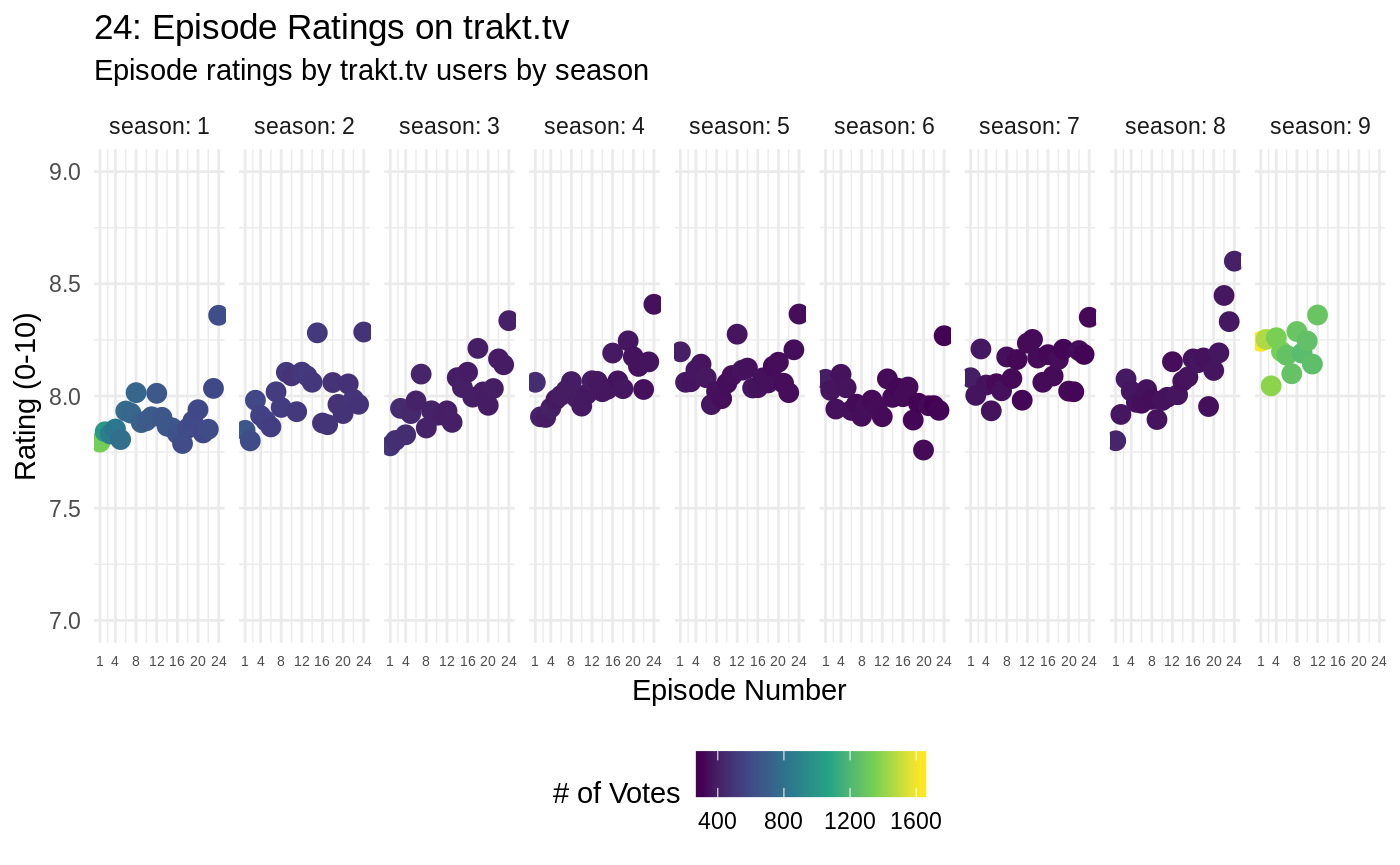
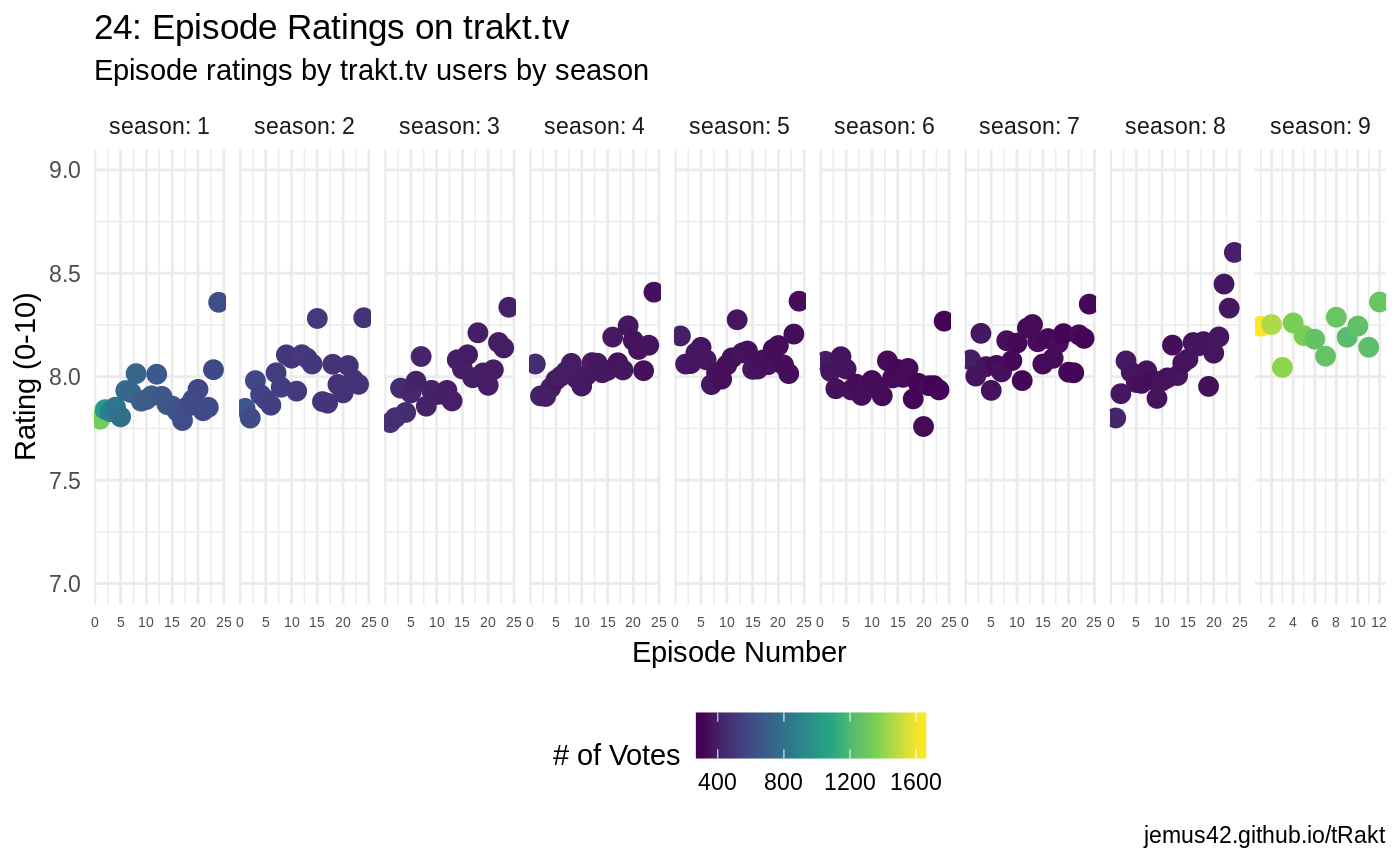
Built site for tRakt: 0.14.0.9000@8f3aa1c

diff --git a/articles/show-analysis-24.html b/articles/show-analysis-24.html
@@ -185,16 +185,17 @@ In this case, we’ll use <code><a href="../reference/trakt.seasons.summary.html
 <a class="sourceLine" id="cb5-2" data-line-number="2"></a>
 <a class="sourceLine" id="cb5-3" data-line-number="3"><span class="kw"><a href="https://ggplot2.tidyverse.org/reference/ggplot.html">ggplot</a></span>(<span class="dt">data =</span> episodes, <span class="kw"><a href="https://ggplot2.tidyverse.org/reference/aes.html">aes</a></span>(<span class="dt">x =</span> episodes_episode, <span class="dt">y =</span> episodes_rating, <span class="dt">color =</span> episodes_votes)) <span class="op">+</span></a>
 <a class="sourceLine" id="cb5-4" data-line-number="4"><span class="st">  </span><span class="kw"><a href="https://ggplot2.tidyverse.org/reference/geom_point.html">geom_point</a></span>(<span class="dt">size =</span> <span class="dv">3</span>) <span class="op">+</span></a>
-<a class="sourceLine" id="cb5-5" data-line-number="5"><span class="st">  </span><span class="kw"><a href="https://ggplot2.tidyverse.org/reference/facet_wrap.html">facet_wrap</a></span>(<span class="op">~</span>season, <span class="dt">nrow =</span> <span class="dv">1</span>, <span class="dt">labeller =</span> label_both) <span class="op">+</span></a>
-<a class="sourceLine" id="cb5-6" data-line-number="6"><span class="st">  </span><span class="kw"><a href="https://ggplot2.tidyverse.org/reference/scale_continuous.html">scale_x_continuous</a></span>(<span class="dt">breaks =</span> <span class="kw"><a href="https://www.rdocumentation.org/packages/base/topics/c">c</a></span>(<span class="dv">1</span>, <span class="kw"><a href="https://www.rdocumentation.org/packages/base/topics/seq">seq</a></span>(<span class="dv">4</span>, <span class="dv">24</span>, <span class="dv">4</span>))) <span class="op">+</span></a>
+<a class="sourceLine" id="cb5-5" data-line-number="5"><span class="st">  </span><span class="kw"><a href="https://ggplot2.tidyverse.org/reference/facet_wrap.html">facet_wrap</a></span>(<span class="op">~</span>season, <span class="dt">nrow =</span> <span class="dv">1</span>, <span class="dt">labeller =</span> label_both, <span class="dt">scales =</span> <span class="st">"free_x"</span>) <span class="op">+</span></a>
+<a class="sourceLine" id="cb5-6" data-line-number="6"><span class="st">  </span><span class="kw"><a href="https://ggplot2.tidyverse.org/reference/scale_continuous.html">scale_x_continuous</a></span>(<span class="dt">breaks =</span> scales<span class="op">::</span><span class="kw"><a href="https://www.rdocumentation.org/packages/scales/topics/pretty_breaks">pretty_breaks</a></span>()) <span class="op">+</span></a>
 <a class="sourceLine" id="cb5-7" data-line-number="7"><span class="st">  </span><span class="kw"><a href="https://ggplot2.tidyverse.org/reference/scale_continuous.html">scale_y_continuous</a></span>(<span class="dt">breaks =</span> <span class="kw"><a href="https://www.rdocumentation.org/packages/base/topics/seq">seq</a></span>(<span class="dv">0</span>, <span class="dv">10</span>, <span class="fl">.5</span>), <span class="dt">minor_breaks =</span> <span class="kw"><a href="https://www.rdocumentation.org/packages/base/topics/seq">seq</a></span>(<span class="dv">0</span>, <span class="dv">10</span>, <span class="fl">.25</span>), <span class="dt">limits =</span> <span class="kw"><a href="https://www.rdocumentation.org/packages/base/topics/c">c</a></span>(<span class="dv">7</span>, <span class="dv">9</span>)) <span class="op">+</span></a>
 <a class="sourceLine" id="cb5-8" data-line-number="8"><span class="st">  </span><span class="kw"><a href="https://ggplot2.tidyverse.org/reference/scale_viridis.html">scale_color_viridis_c</a></span>() <span class="op">+</span></a>
 <a class="sourceLine" id="cb5-9" data-line-number="9"><span class="st">  </span><span class="kw"><a href="https://ggplot2.tidyverse.org/reference/labs.html">labs</a></span>(<span class="dt">title =</span> <span class="st">"24: Episode Ratings on trakt.tv"</span>,</a>
 <a class="sourceLine" id="cb5-10" data-line-number="10">       <span class="dt">subtitle =</span> <span class="st">"Episode ratings by trakt.tv users by season"</span>,</a>
-<a class="sourceLine" id="cb5-11" data-line-number="11">       <span class="dt">x =</span> <span class="st">"Episode Number"</span>, <span class="dt">y =</span> <span class="st">"Rating (0-10)"</span>, <span class="dt">color =</span> <span class="st">"# of Votes"</span>) <span class="op">+</span></a>
-<a class="sourceLine" id="cb5-12" data-line-number="12"><span class="st">  </span><span class="kw"><a href="https://ggplot2.tidyverse.org/reference/ggtheme.html">theme_minimal</a></span>() <span class="op">+</span></a>
-<a class="sourceLine" id="cb5-13" data-line-number="13"><span class="st">  </span><span class="kw"><a href="https://ggplot2.tidyverse.org/reference/theme.html">theme</a></span>(<span class="dt">legend.position =</span> <span class="st">"bottom"</span>,</a>
-<a class="sourceLine" id="cb5-14" data-line-number="14">        <span class="dt">axis.text.x =</span> <span class="kw"><a href="https://ggplot2.tidyverse.org/reference/element.html">element_text</a></span>(<span class="dt">size =</span> <span class="kw"><a href="https://ggplot2.tidyverse.org/reference/element.html">rel</a></span>(.<span class="dv">6</span>)))</a></code></pre></div>
+<a class="sourceLine" id="cb5-11" data-line-number="11">       <span class="dt">x =</span> <span class="st">"Episode Number"</span>, <span class="dt">y =</span> <span class="st">"Rating (0-10)"</span>, <span class="dt">color =</span> <span class="st">"# of Votes"</span>,</a>
+<a class="sourceLine" id="cb5-12" data-line-number="12">       <span class="dt">caption =</span> <span class="st">"jemus42.github.io/tRakt"</span>) <span class="op">+</span></a>
+<a class="sourceLine" id="cb5-13" data-line-number="13"><span class="st">  </span><span class="kw"><a href="https://ggplot2.tidyverse.org/reference/ggtheme.html">theme_minimal</a></span>() <span class="op">+</span></a>
+<a class="sourceLine" id="cb5-14" data-line-number="14"><span class="st">  </span><span class="kw"><a href="https://ggplot2.tidyverse.org/reference/theme.html">theme</a></span>(<span class="dt">legend.position =</span> <span class="st">"bottom"</span>,</a>
+<a class="sourceLine" id="cb5-15" data-line-number="15">        <span class="dt">axis.text.x =</span> <span class="kw"><a href="https://ggplot2.tidyverse.org/reference/element.html">element_text</a></span>(<span class="dt">size =</span> <span class="kw"><a href="https://ggplot2.tidyverse.org/reference/element.html">rel</a></span>(.<span class="dv">6</span>)))</a></code></pre></div>
 <p><img src="show-analysis-24_files/figure-html/24_episodes_plot-1.png" width="100%"></p>
 </div>
   </div>

diff --git a/reference/automated_lists.html b/reference/automated_lists.html
@@ -295,7 +295,11 @@ same additional variables besides the media information: <code>watcher_count</co
     
     <h2 class="hasAnchor" id="note"><a class="anchor" href="#note"></a>Note</h2>
 
-    <p>Does not support filters</p>
+    <p><code>trakt.updates</code> does not support filters.</p>
+    
+    <h2 class="hasAnchor" id="see-also"><a class="anchor" href="#see-also"></a>See also</h2>
+
+    <div class='dont-index'><p>search_filters</p></div>
     
 
     <h2 class="hasAnchor" id="examples"><a class="anchor" href="#examples"></a>Examples</h2>
@@ -317,11 +321,11 @@ same additional variables besides the media information: <code>watcher_count</co
 <span class='fu'>trakt.trending</span>(<span class='kw'>type</span> <span class='kw'>=</span> <span class='st'>"movies"</span>, <span class='fl'>5</span>, <span class='kw'>extended</span> <span class='kw'>=</span> <span class='st'>"full"</span>)</div><div class='output co'>#&gt; # A tibble: 5 x 22
 #&gt;   watchers title  year tagline overview released   runtime country trailer
 #&gt;      &lt;int&gt; &lt;chr&gt; &lt;int&gt; &lt;chr&gt;   &lt;chr&gt;    &lt;date&gt;       &lt;int&gt; &lt;chr&gt;   &lt;chr&gt;  
-#&gt; 1       72 Spid…  2018 More T… "Miles … 2018-12-14     117 us      http:/…
-#&gt; 2       54 Bohe…  2018 Fearle… Singer … 2018-11-02     135 us      http:/…
-#&gt; 3       53 Aqua…  2018 Home I… Once ho… 2018-12-21     143 us      http:/…
-#&gt; 4       49 Gree…  2018 Inspir… Tony Li… 2018-11-21     130 us      http:/…
-#&gt; 5       46 Inst…  2018 Just a… When Pe… 2018-11-16     118 us      http:/…
+#&gt; 1       70 Spid…  2018 More T… "Miles … 2018-12-14     117 us      http:/…
+#&gt; 2       53 Aqua…  2018 Home I… Once ho… 2018-12-21     143 us      http:/…
+#&gt; 3       49 Bohe…  2018 Fearle… Singer … 2018-11-02     135 us      http:/…
+#&gt; 4       44 Gree…  2018 Inspir… Tony Li… 2018-11-21     130 us      http:/…
+#&gt; 5       43 Inst…  2018 Just a… When Pe… 2018-11-16     118 us      http:/…
 #&gt; # … with 13 more variables: homepage &lt;chr&gt;, rating &lt;dbl&gt;, votes &lt;int&gt;,
 #&gt; #   comment_count &lt;int&gt;, updated_at &lt;dttm&gt;, language &lt;chr&gt;,
 #&gt; #   available_translations &lt;list&gt;, genres &lt;list&gt;, certification &lt;chr&gt;,
@@ -346,6 +350,8 @@ same additional variables besides the media information: <code>watcher_count</co
       <li><a href="#details">Details</a></li>
 
       <li><a href="#note">Note</a></li>
+
+      <li><a href="#see-also">See also</a></li>
       
       <li><a href="#examples">Examples</a></li>
     </ul>

diff --git a/reference/trakt.api.call.html b/reference/trakt.api.call.html
@@ -213,7 +213,7 @@ An empty <a href='https://tibble.tidyverse.org/reference/tibble-package.html'>ti
 #&gt; 
 #&gt; $headers
 #&gt; $date
-#&gt; [1] "Mon, 04 Mar 2019 04:26:10 GMT"
+#&gt; [1] "Mon, 04 Mar 2019 04:38:08 GMT"
 #&gt; 
 #&gt; $`content-type`
 #&gt; [1] "application/json; charset=utf-8"
@@ -225,13 +225,13 @@ An empty <a href='https://tibble.tidyverse.org/reference/tibble-package.html'>ti
 #&gt; [1] "max-age=0, private, must-revalidate"
 #&gt; 
 #&gt; $`cf-railgun`
-#&gt; [1] "9e6754930d stream 0.000000 0200 57da"
+#&gt; [1] "b648850536 stream 0.000000 0200 57da"
 #&gt; 
 #&gt; $`content-encoding`
 #&gt; [1] "gzip"
 #&gt; 
 #&gt; $etag
-#&gt; [1] "W/\"c903c328168655bc9ec3ec9f81177a23\""
+#&gt; [1] "W/\"f0652c55ebaa55605c3b3b296143d394\""
 #&gt; 
 #&gt; $vary
 #&gt; [1] "Accept-Encoding"
@@ -246,10 +246,10 @@ An empty <a href='https://tibble.tidyverse.org/reference/tibble-package.html'>ti
 #&gt; [1] "false"
 #&gt; 
 #&gt; $`x-request-id`
-#&gt; [1] "df8ab593-c0ee-49da-826f-1cabd020d1ff"
+#&gt; [1] "3460b613-7877-45ea-aa5c-3b2198194b06"
 #&gt; 
 #&gt; $`x-runtime`
-#&gt; [1] "0.011216"
+#&gt; [1] "0.011076"
 #&gt; 
 #&gt; $`x-xss-protection`
 #&gt; [1] "1; mode=block"
@@ -261,7 +261,7 @@ An empty <a href='https://tibble.tidyverse.org/reference/tibble-package.html'>ti
 #&gt; [1] "cloudflare"
 #&gt; 
 #&gt; $`cf-ray`
-#&gt; [1] "4b211727a833c50a-ORD"
+#&gt; [1] "4b2128afbdf0c556-ORD"
 #&gt; 
 #&gt; attr(,"class")
 #&gt; [1] "insensitive" "list"       

diff --git a/reference/search_filters.html b/reference/search_filters.html
@@ -196,13 +196,19 @@ for a list of known networks.</p></td>
     </tr>
     </table>
     
+    <h2 class="hasAnchor" id="see-also"><a class="anchor" href="#see-also"></a>See also</h2>
+
+    <div class='dont-index'><p>automated_lists</p></div>
+    
 
   </div>
   <div class="col-md-3 hidden-xs hidden-sm" id="sidebar">
     <h2>Contents</h2>
     <ul class="nav nav-pills nav-stacked">
       <li><a href="#arguments">Arguments</a></li>
-                </ul>
+      
+      <li><a href="#see-also">See also</a></li>
+          </ul>
 
   </div>
 </div>
